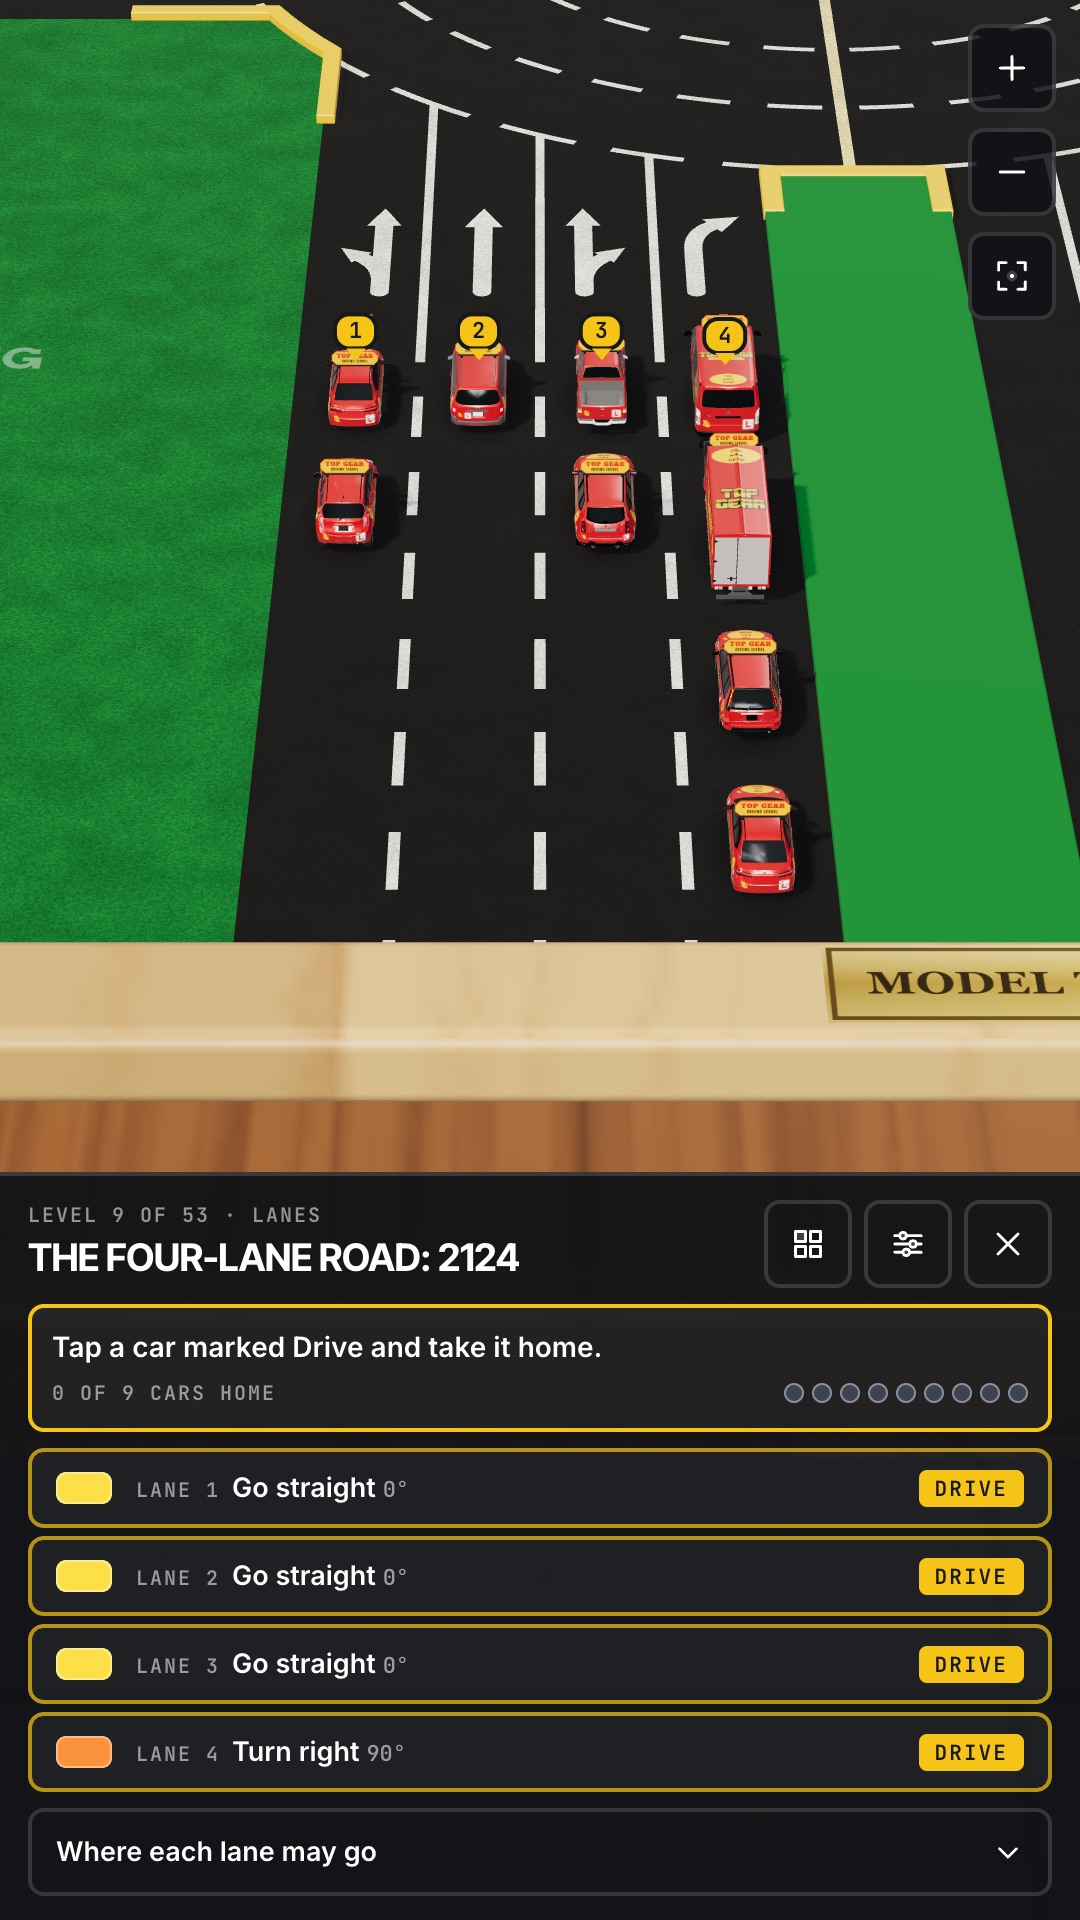
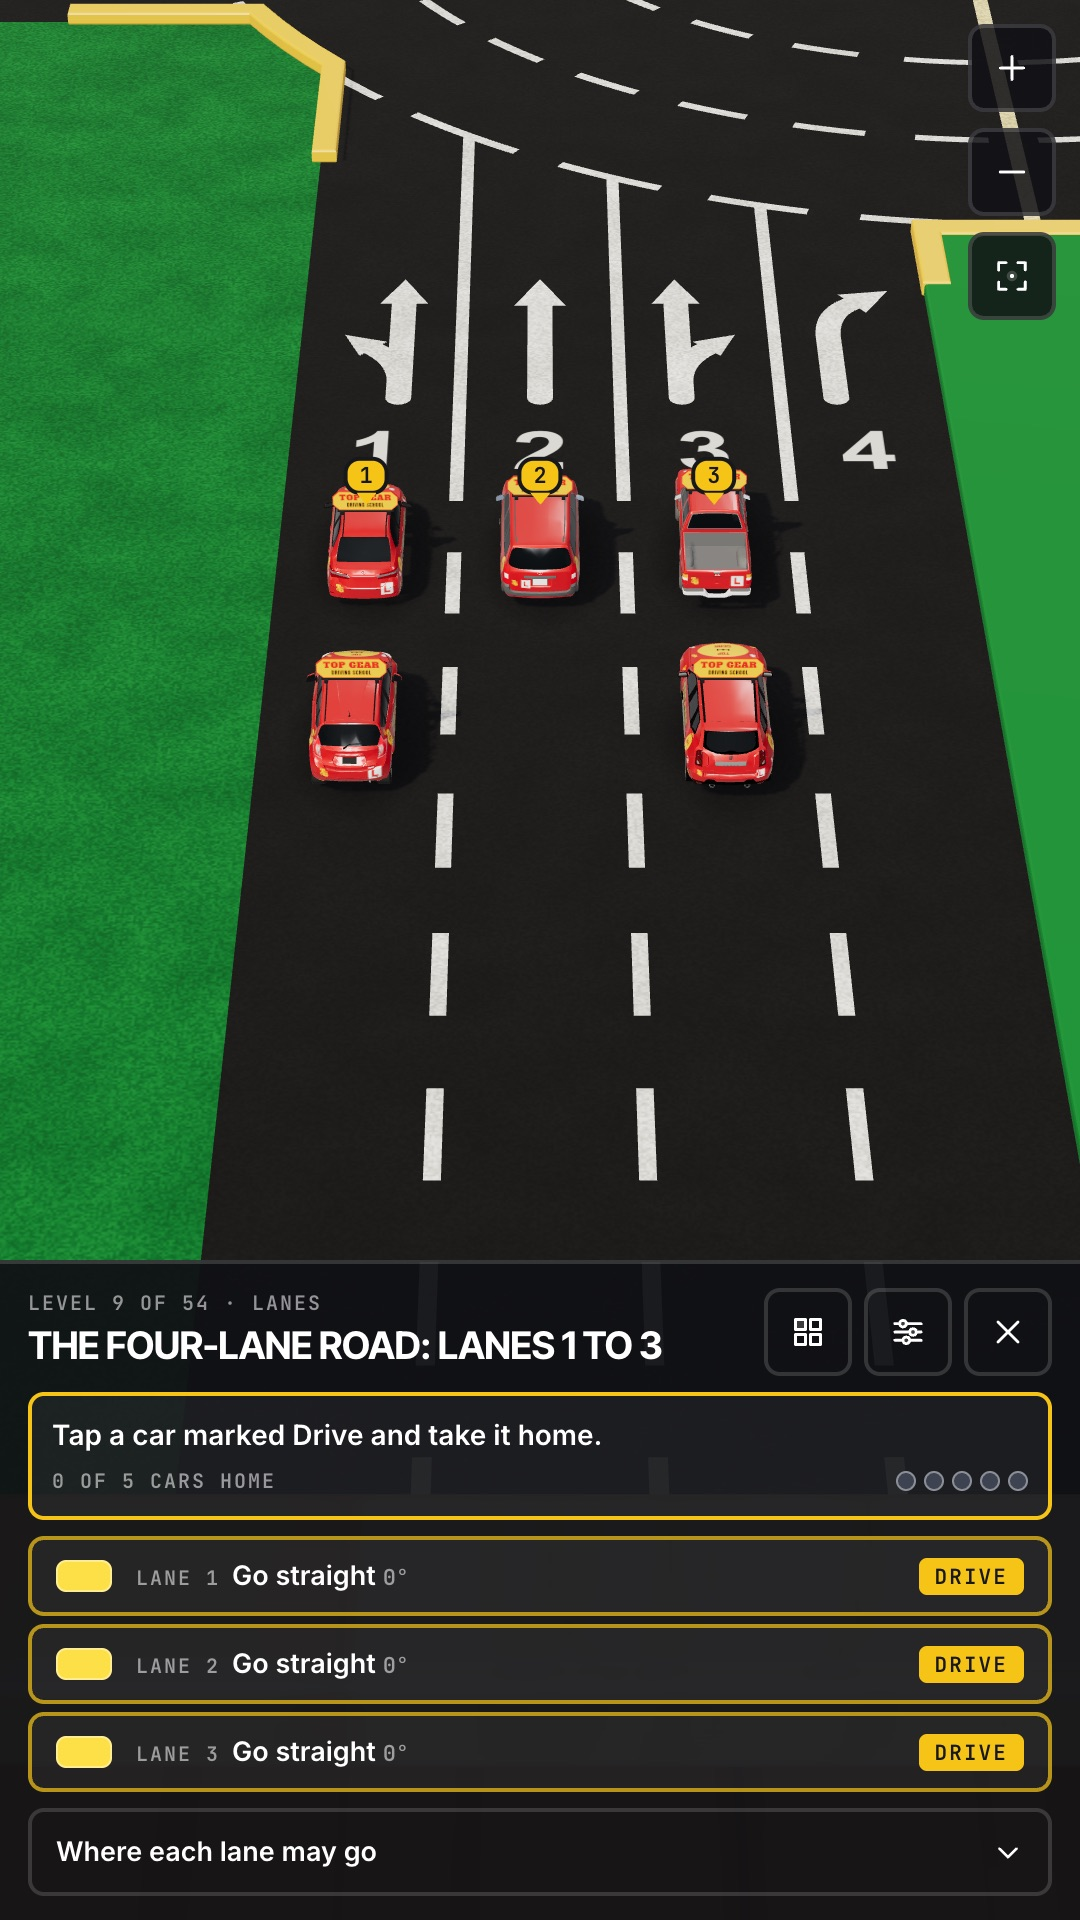
feat: the four-lane road's line-up is two levels too
Split like the three-lane road: level 9 is lanes 1 to 3 (5 cars) and
level 10 is lane 4 on its own (4 cars), the innermost lane where the
U-turn, the Q-turn and the full circle are. The course has 54 levels.

`formerly: "four-lane"` keeps the old level counted as done for both
parts and an old ?level=four-lane link opens the first. The question
bank found its Lanes level by exact id, so it now names the new one.
The install screenshots are taken again on the new level.

diff --git a/app/lib/board/lane-levels.test.ts b/app/lib/board/lane-levels.test.ts
@@ -51,10 +51,23 @@ describe("lane options levels", () => {
     for (const l of lanesLevels.filter((one) => one.arm === "W")) {
       expect(levelDone(l, saved), l.id).toBe(true);
     }
-    expect(levelDone(levelById("four-lane")!, saved)).toBe(false);
+    expect(levelDone(levelById("four-lane-1-3")!, saved)).toBe(false);
+    const fourLane = { learned: ["lv:four-lane"], bestStars: {} };
+    for (const l of lanesLevels.filter((one) => one.arm === "S")) {
+      expect(levelDone(l, fourLane), l.id).toBe(true);
+    }
+  });
+
+  it("split the four-lane road: lanes 1 to 3, then lane 4", () => {
+    const parts = lanesLevels.filter((l) => l.arm === "S");
+    expect(parts.map((l) => l.lanes)).toEqual([[1, 2, 3], [4]]);
+    expect(parts[1].n).toBe(parts[0].n + 1);
+    expect(queueCars("S", parts[0].lanes)).toHaveLength(5);
+    expect(queueCars("S", parts[1].lanes)).toHaveLength(4);
   });
 
   it("open the first part from an old link to the whole road", () => {
     expect(levelById("three-lane")?.id).toBe("three-lane-1-2");
+    expect(levelById("four-lane")?.id).toBe("four-lane-1-3");
   });
 });

diff --git a/app/lib/board/curriculum.ts b/app/lib/board/curriculum.ts
@@ -174,12 +174,26 @@ const UNIT_DEFS: readonly {
         { feature: "lane-numbers" },
         { feature: "lane-arrows" },
       ]),
+      // Split like the three-lane road below (owner, 2026-11-24): the outer
+      // lanes, then the innermost lane on its own, where the U-turn, the
+      // Q-turn and the full circle are.
       {
         kind: "lanes",
-        id: "four-lane",
-        title: "The four-lane road: 2124",
+        id: "four-lane-1-3",
+        title: "The four-lane road: lanes 1 to 3",
         difficulty: "Easy",
         arm: "S",
+        lanes: [1, 2, 3],
+        formerly: "four-lane",
+      },
+      {
+        kind: "lanes",
+        id: "four-lane-4",
+        title: "The four-lane road: lane 4",
+        difficulty: "Medium",
+        arm: "S",
+        lanes: [4],
+        formerly: "four-lane",
       },
       // One level of eight cars lost most of the learners who started it
       // (PostHog, 2026-11-24: 6 of 15 finished; those who stopped had driven

diff --git a/app/components/board/board-level.tsx b/app/components/board/board-level.tsx
@@ -475,6 +475,12 @@ function SlidesLevel({
   );
 }
 
+/** "lane 4", "lanes 1 and 2", "lanes 1, 2 and 3". */
+function laneList(lanes: readonly number[]): string {
+  if (lanes.length === 1) return `lane ${lanes[0]}`;
+  return `lanes ${lanes.slice(0, -1).join(", ")} and ${lanes[lanes.length - 1]}`;
+}
+
 // ---- the lanes of one road --------------------------------------------------------------
 
 /**
@@ -675,8 +681,7 @@ function LanesLevel({
           </strong>
           : the number of options in each lane, counted from the kerb. There is
           one car for each option.
-          {only &&
-            ` This level has the cars of ${only.length === 1 ? `lane ${only[0]}` : `lanes ${only.join(" and ")}`}.`}
+          {only && ` This level has the cars of ${laneList(only)}.`}
         </p>
         {(only ?? Array.from({ length: lanes }, (_, i) => i + 1)).map(
           (lane) => (

diff --git a/app/lib/board-guides.ts b/app/lib/board-guides.ts
@@ -18,7 +18,7 @@ export const BOARD_PLAY_PATH = `${BOARD_PATH}/play`;
  * or carries on the course; this is where a learner jumps to any level.
  */
 export const BOARD_LEVELS_PATH = `${BOARD_PATH}/levels`;
-export const BOARD_LEVELS_TITLE = "All 53 Model Town Board levels";
+export const BOARD_LEVELS_TITLE = "All 54 Model Town Board levels";
 export const BOARD_LEVELS_DESCRIPTION =
   "Every level of the Model Town Board course, with a picture of each: lanes, the roundabout, routes, blocked roads and parking. Free, every level open.";
 /** The game opened on one level of the course. */

diff --git a/app/data/board-questions.ts b/app/data/board-questions.ts
@@ -28,7 +28,7 @@ export type BoardTopic = {
 
 export const BOARD_TOPICS: readonly BoardTopic[] = [
   { id: "board", title: "The board and its roads", level: "roads" },
-  { id: "lanes", title: "Lanes", level: "four-lane" },
+  { id: "lanes", title: "Lanes", level: "four-lane-1-3" },
   { id: "roundabout", title: "The roundabout", level: "roundabout-rules" },
   { id: "routes", title: "Routes", level: "route-rules" },
   { id: "signs", title: "Signs on the board", level: "stops" },

diff --git a/app/components/board/board-lane-options.tsx b/app/components/board/board-lane-options.tsx
@@ -18,7 +18,7 @@ import { MDX } from "~/components/brand/mdx-components";
 type Road = "S" | "W";
 
 const ROADS: Record<Road, { name: string; code: string; level: string }> = {
-  S: { name: "four-lane road", code: "2124", level: "four-lane" },
+  S: { name: "four-lane road", code: "2124", level: "four-lane-1-3" },
   // Its options are taught in two levels; the guide links the first.
   W: { name: "three-lane road", code: "215", level: "three-lane-1-2" },
 };
